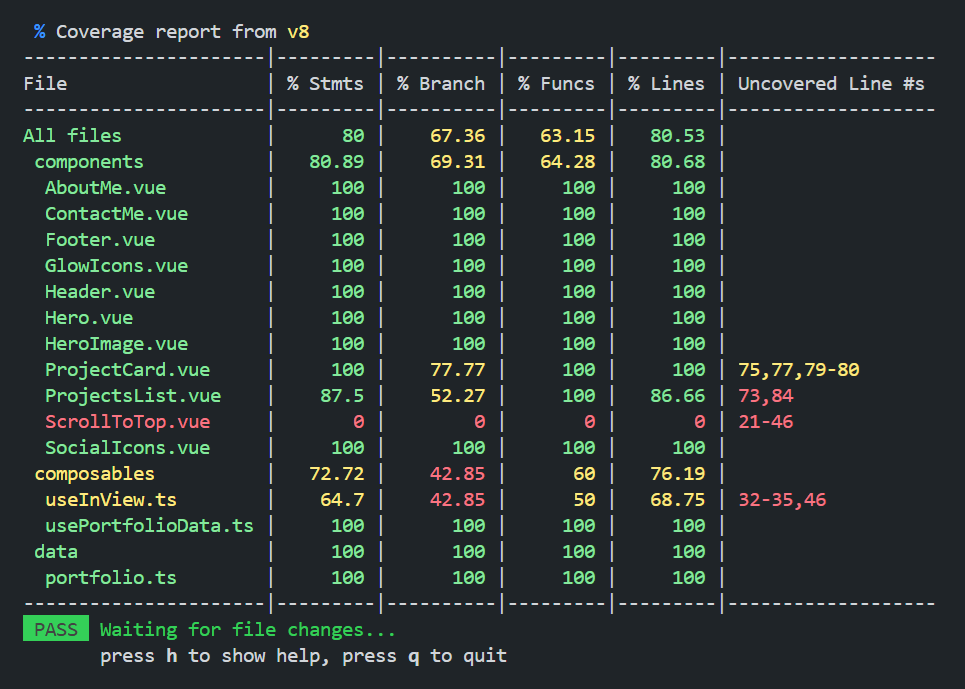
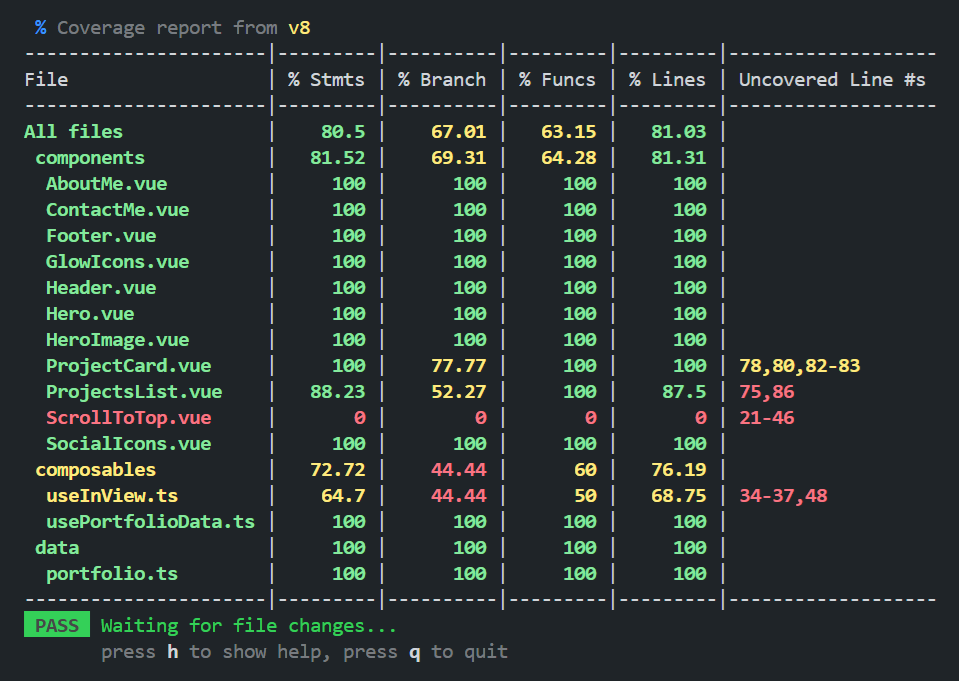
Replaced ref() with useTemplateRef()

Changed region(s): [[0.0302, 0.0308, 0.9677, 0.9868]]

diff --git a/src/composables/useInView.ts b/src/composables/useInView.ts
@@ -1,5 +1,4 @@
-import { ref, onMounted, onUnmounted } from "vue";
-import type { Ref } from "vue";
+import { ref, onMounted, onUnmounted, type Ref } from "vue";
 
 // minimal local shapes for IntersectionObserver-like behavior (avoid lib.dom dependency)
 type IOEntry = { isIntersecting?: boolean; target?: unknown };
@@ -9,8 +8,11 @@ type IntersectionObserverLike = {
   disconnect?: () => void;
 };
 
-export function useInView(threshold = 0.1) {
-  const sectionRef: Ref<unknown | null> = ref(null);
+export function useInView<T extends Element = Element>(
+  targetRef?: Ref<T | null>,
+  threshold = 0.1,
+) {
+  const sectionRef = targetRef ?? ref<T | null>(null);
   const isVisible = ref(false);
 
   let observer: IntersectionObserverLike | null = null;

diff --git a/src/components/ProjectCard.vue b/src/components/ProjectCard.vue
@@ -60,6 +60,7 @@ import commingSoonImg from "@/assets/projects/coming-soon.webp";
 import SocialIcons from "./SocialIcons.vue";
 import GlowIcons from "./GlowIcons.vue";
 import { useInView } from "@/composables/useInView";
+import { useTemplateRef } from "vue";
 
 const props = defineProps<{
   image?: string;
@@ -70,7 +71,8 @@ const props = defineProps<{
   index?: number;
 }>();
 
-const { sectionRef, isVisible } = useInView();
+const sectionRef = useTemplateRef<HTMLDivElement>("sectionRef");
+const { isVisible } = useInView(sectionRef);
 
 // safe locals for template usage
 const index = props.index ?? 0;

diff --git a/src/components/ProjectsList.vue b/src/components/ProjectsList.vue
@@ -29,11 +29,13 @@
 </template>
 
 <script setup lang="ts">
-import { computed } from "vue";
+import { computed, useTemplateRef } from "vue";
 import ProjectCard from "./ProjectCard.vue";
 import { usePortfolioData } from "@/composables/usePortfolioData";
 import { useInView } from "@/composables/useInView";
-const { sectionRef, isVisible } = useInView();
+
+const sectionRef = useTemplateRef<HTMLDivElement>("sectionRef");
+const { isVisible } = useInView(sectionRef);
 
 type Tech = { name: string; file_name: string };
 type ProjectLink = {

diff --git a/src/components/AboutMe.vue b/src/components/AboutMe.vue
@@ -88,8 +88,10 @@
 import HeroImage from "./HeroImage.vue";
 import GlowIcons from "./GlowIcons.vue";
 import { usePortfolioData } from "@/composables/usePortfolioData";
-const { techStack } = usePortfolioData();
 import { useInView } from "@/composables/useInView";
+import { useTemplateRef } from "vue";
 
-const { sectionRef, isVisible } = useInView();
+const { techStack } = usePortfolioData();
+const sectionRef = useTemplateRef<HTMLDivElement>("sectionRef");
+const { isVisible } = useInView(sectionRef);
 </script>
